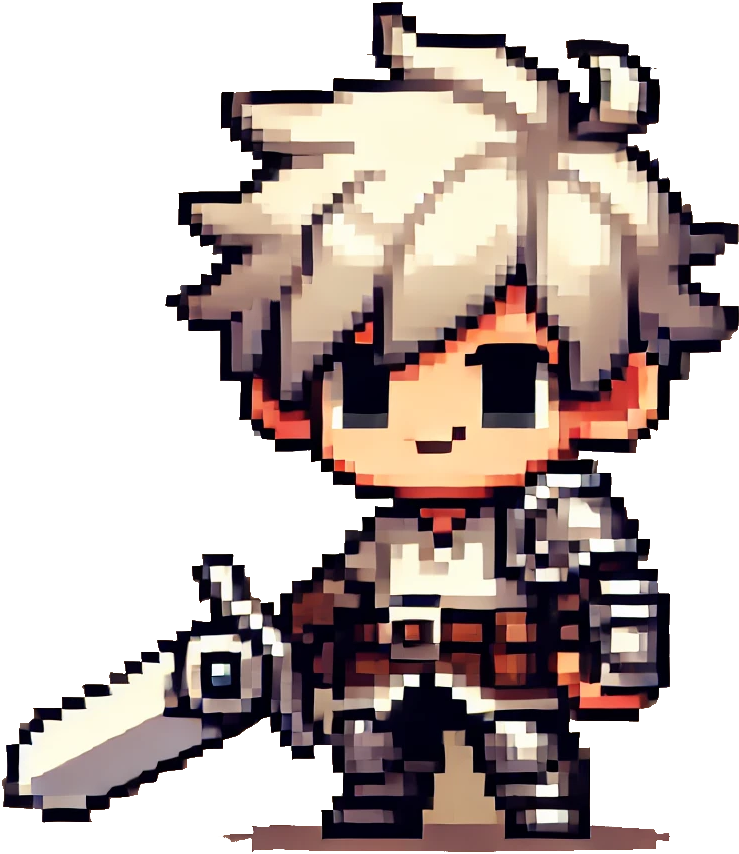
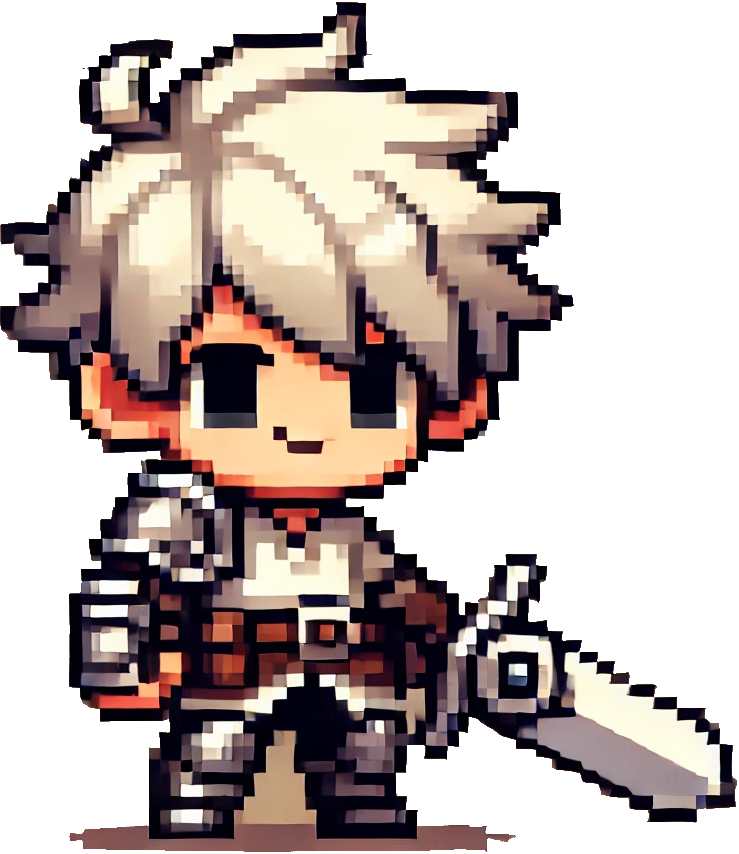
Make character movable and flipable (not yet centered)

diff --git a/src/character.cpp b/src/character.cpp
@@ -2,25 +2,58 @@
 #include <SFML/Graphics.hpp>
 using namespace std;
 
-class Character: public sf::Sprite {
+class Character: 
+    public sf::Drawable,
+    public sf::Transformable {
 public:
-    Character() {
-        if (!warrior.loadFromFile("../../assets/character0.png")) {
-            cerr << "Error loading warrior texture!" << endl;
-        }
-        else setTexture(warrior);
+    Character(const sf::Texture& texture, const sf::Font& font, wstring char_name): character(texture), name(font) {        
+        centerDot = sf::CircleShape(5.f);
+        centerDot.setFillColor(sf::Color(255, 0, 0, 200));
+        centerDot.setOrigin(centerDot.getGeometricCenter());
         
-        setScale({0.25f, 0.25f});
-        setOrigin({warrior.getSize().x * 0.5f, warrior.getSize().y * 0.5f});
-        scale({-1.f, 1.f});
+        character.setScale({0.25f, 0.25f});
+        sf::Vector2f center = character.getLocalBounds().getCenter();
+        center -= {30.f, 0.f};
+        character.setOrigin(center);
+        centerDot.setPosition(character.getPosition());
+   
+        // name.setString(char_name);
+        // name.setCharacterSize(24);
+        // name.setFillColor(sf::Color::Red);
+        // name.setOrigin(name.getLocalBounds().getCenter());
+        // name.setPosition(center);
+        // name.setPosition(center + sf::Vector2f{-300.f, -400.f});
+
+        faceRight = true;
     }
 
-    // sf::Font mingliu("../../assets/mingliu.ttc");
-    // sf::Text name(mingliu);
-    // name.setString(L"你的名字");
-    // name.setCharacterSize(24);
-    // name.setFillColor(sf::Color::Red);
+    void moveRight() {
+        if (faceRight == false) {
+            character.scale({-1.f, 1.f});
+            faceRight = true;
+        }
+        move({1.f, 0.f});
+    }
+    void moveLeft() {
+        if (faceRight) {
+            character.scale({-1.f, 1.f});
+            faceRight = false;
+        }
+        move({-1.f, 0.f});
+    }
+
+protected:
+    virtual void draw(sf::RenderTarget& target, sf::RenderStates states) const override {
+        states.transform *= getTransform();  // Apply transformations from the parent (position, scale, rotation)
+        
+        target.draw(character, states);  // Draw the character sprite
+        target.draw(name, states);       // Draw the name text
+        target.draw(centerDot, states);
+    }
 
 private:
-    sf::Texture warrior;
+    sf::Sprite character;
+    sf::Text name;
+    sf::CircleShape centerDot;
+    bool faceRight;
 };

diff --git a/src/main.cpp b/src/main.cpp
@@ -5,21 +5,17 @@ int main()
 {
     sf::RenderWindow window(sf::VideoMode({1920u, 1080u}), "Game-101");
     window.setFramerateLimit(144);
+    
+    sf::Texture warrior;
+    if (!warrior.loadFromFile("../../assets/character0.png")) {
+        cerr << "Error loading warrior texture!" << endl;
+        return 1;
+    }
+    sf::Font mingliu("../../assets/mingliu.ttc");
+    wstring name = L"你的名字";
 
-    // sf::Texture warrior("../../assets/character0.png");
-    // sf::Sprite warrior1(warrior);
-    // warrior1.setScale({0.25f, 0.25f});
-    // warrior1.setOrigin({warrior.getSize().x * 0.5f, warrior.getSize().y * 0.5f});
-    // warrior1.setPosition({window.getSize().x * 0.5f, window.getSize().y * 0.5f});
-    // warrior1.scale({-1.f, 1.f});
-    Character player;
+    Character player(warrior, mingliu, name);
     player.setPosition({window.getSize().x * 0.5f, window.getSize().y * 0.5f});
-
-    // sf::Font mingliu("../../assets/mingliu.ttc");
-    // sf::Text name(mingliu);
-    // name.setString(L"你的名字");
-    // name.setCharacterSize(24);
-    // name.setFillColor(sf::Color::Red);
 
     while (window.isOpen())
     {
@@ -30,13 +26,16 @@ int main()
                 window.close();
             }
             else if (sf::Keyboard::isKeyPressed(sf::Keyboard::Key::Right)) {
-                warrior1.move({1.f, 0.f});
+                player.moveRight();
+            }
+            else if (sf::Keyboard::isKeyPressed(sf::Keyboard::Key::Left)) {
+                player.moveLeft();
             }
         }
 
         window.clear(sf::Color::White);
-        window.draw(warrior1);
-        window.draw(name);
+        window.draw(player);
+        // window.draw(name);
         window.display();
     }
 }
